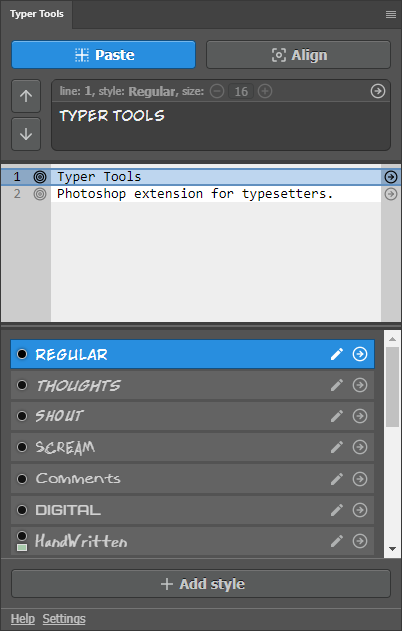
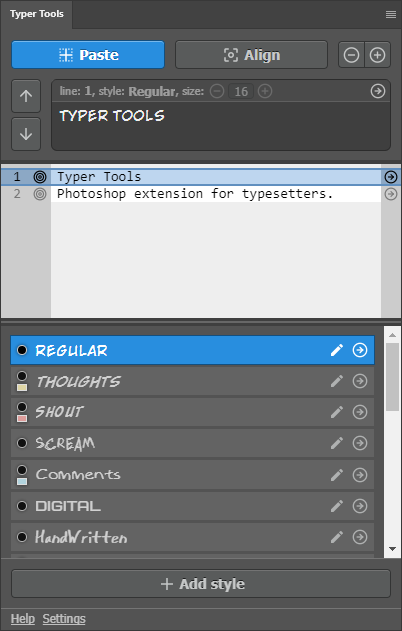
changelog

diff --git a/_includes/changelog.html b/_includes/changelog.html
@@ -1,9 +1,32 @@
 <div class="changelog">
     <div class="changelog-header">
-        Changes in <strong>v.1.3.2</strong> (11.07.2020)
+        <strong>Changelog</strong>
     </div>
-    <div class="changelog-list">
-        <div>Added buttons to change the font size of the current layer while keeping the center of the text block.</div>
-        <div>Fixes and optimization.</div>
+    <div class="changelog-body">
+        <div class="changelog-release">
+            <div class="changelog-release-header">
+                <strong>v.1.3.2</strong> <i>(11.07.2020)</i>
+            </div>
+            <div class="changelog-list">
+                <div>Added buttons which allow to change the font size of the current layer while keeping the center of the text block.</div>
+            </div>
+        </div>
+        <div class="changelog-release">
+            <div class="changelog-release-header">
+                <strong>v.1.3.1</strong> <i>(30.06.2020)</i>
+            </div>
+            <div class="changelog-list">
+                <div>Added option to change the autoleading percentage in the style settings.</div>
+            </div>
+        </div>
+        <div class="changelog-release">
+            <div class="changelog-release-header">
+                <strong>v.1.3.0</strong> <i>(25.06.2020)</i>
+            </div>
+            <div class="changelog-list">
+                <div>Significant performance boost.</div>
+                <div>Extension is no longer littering the Photoshop history.</div>
+            </div>
+        </div>
     </div>
 </div>

diff --git a/assets/css/style.scss b/assets/css/style.scss
@@ -4,6 +4,10 @@
 @import "{{ site.theme }}";
 
 .typertools-page {
+  A:hover, A:focus {
+    color: #00466f;
+    font-weight: normal;
+  }
   HEADER IMG {
     margin: 0 0 20px;
   }
@@ -18,17 +22,28 @@
     }
   }
   .changelog {
+    margin-bottom: 20px;
     border: 1px solid #e5e5e5;
     border-radius: 6px;
     line-height: 1.2;
     font-size: 12px;
   }
   .changelog-header {
-    border-bottom: 1px solid #e5e5e5;
-    padding: 10px 10px 5px;
+    font-size: 14px;
+    padding: 10px;
+  }
+  .changelog-body {
+    overflow: auto;
+  }
+  .changelog-release {
+    border-top: 1px solid #e5e5e5;
+    padding: 10px;
+  }
+  .changelog-release-header {
+    margin-bottom: 5px;
   }
   .changelog-list {
-    padding: 5px 10px 10px 20px;
+    margin-left: 10px;
     DIV {
       position: relative;
     }

diff --git a/_layouts/default.html b/_layouts/default.html
@@ -38,16 +38,12 @@
           </ul>
         {% endif %}
         {% include changelog.html %}
+        <p>Developed by <a href="{{ site.author_url }}" target="_blank">{{ site.author_name }}</a> <i>(<a href="{{ site.source_url }}" target="_blank">source code</a>)</i></p>
       </header>
 
       <section>
         {{ content }}
       </section>
-
-      <footer>
-        <p>Developed by <a href="{{ site.author_url }}" target="_blank">{{ site.author_name }}</a> (<a href="{{ site.source_url }}" target="_blank">source code</a>)</p>
-        <p><small>Hosted on GitHub Pages &mdash; Theme by <a href="https://github.com/orderedlist">orderedlist</a></small></p>
-      </footer>
     </div>
 
     <script src="{{ "/assets/js/scale.fix.js" | relative_url }}"></script>
